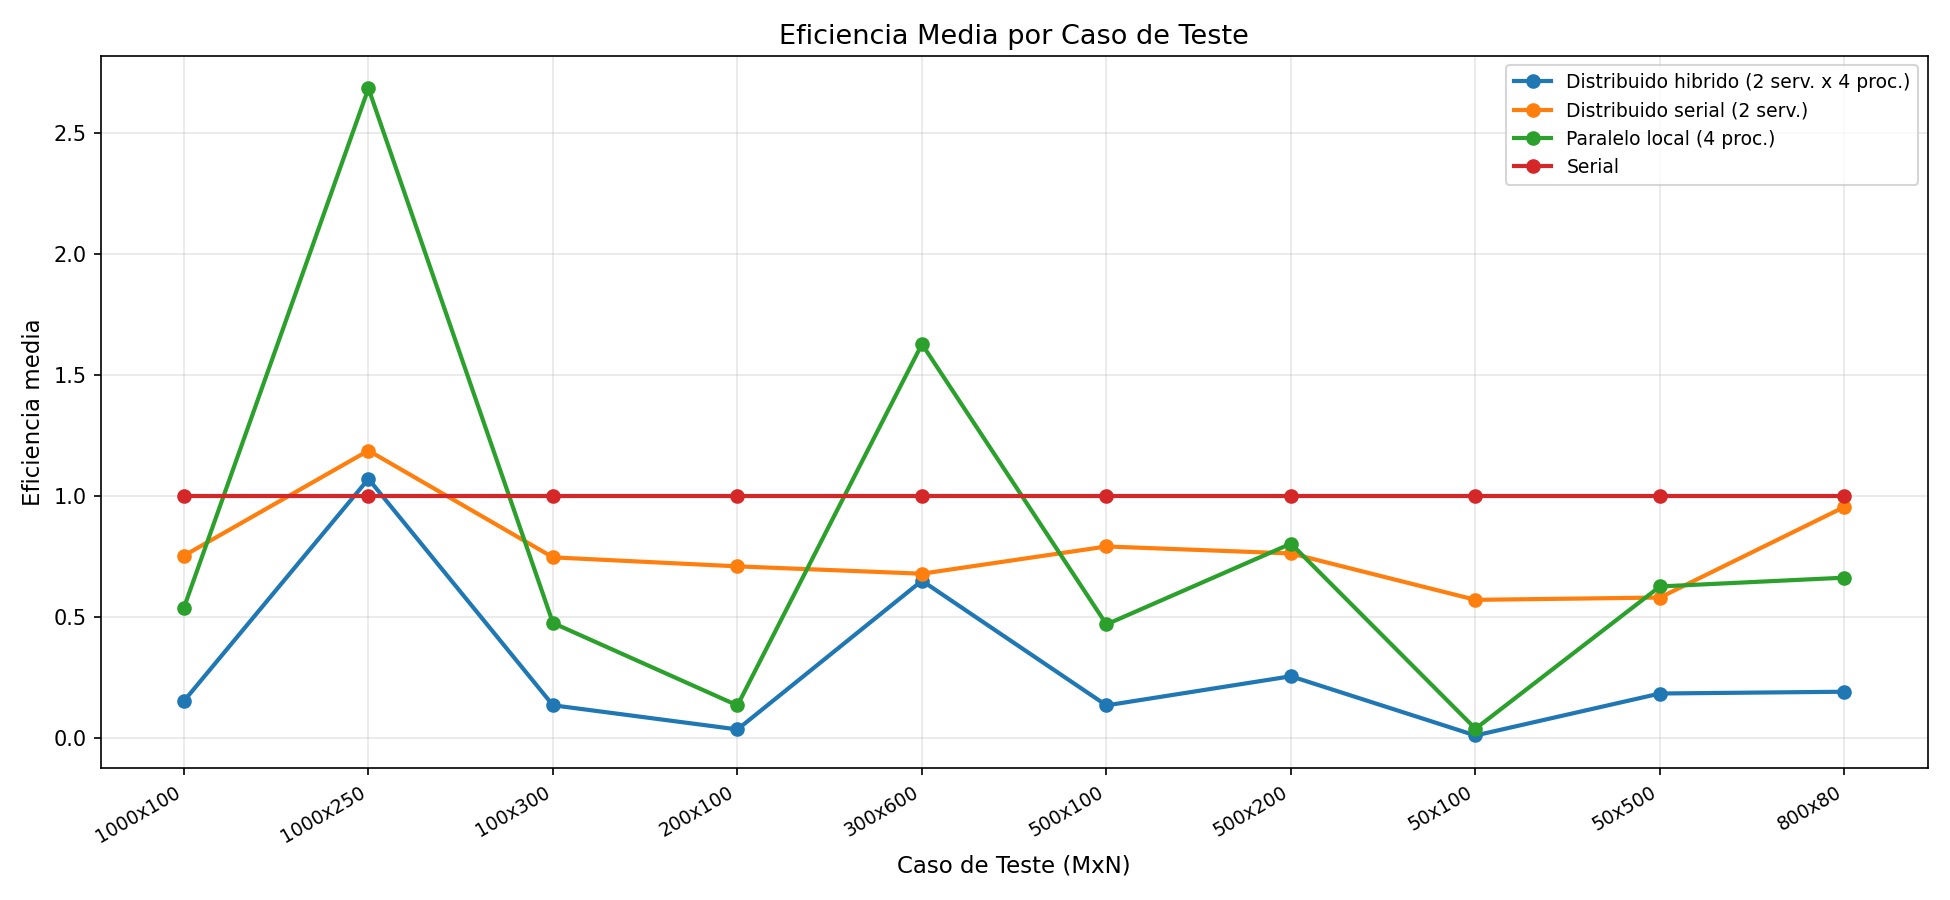
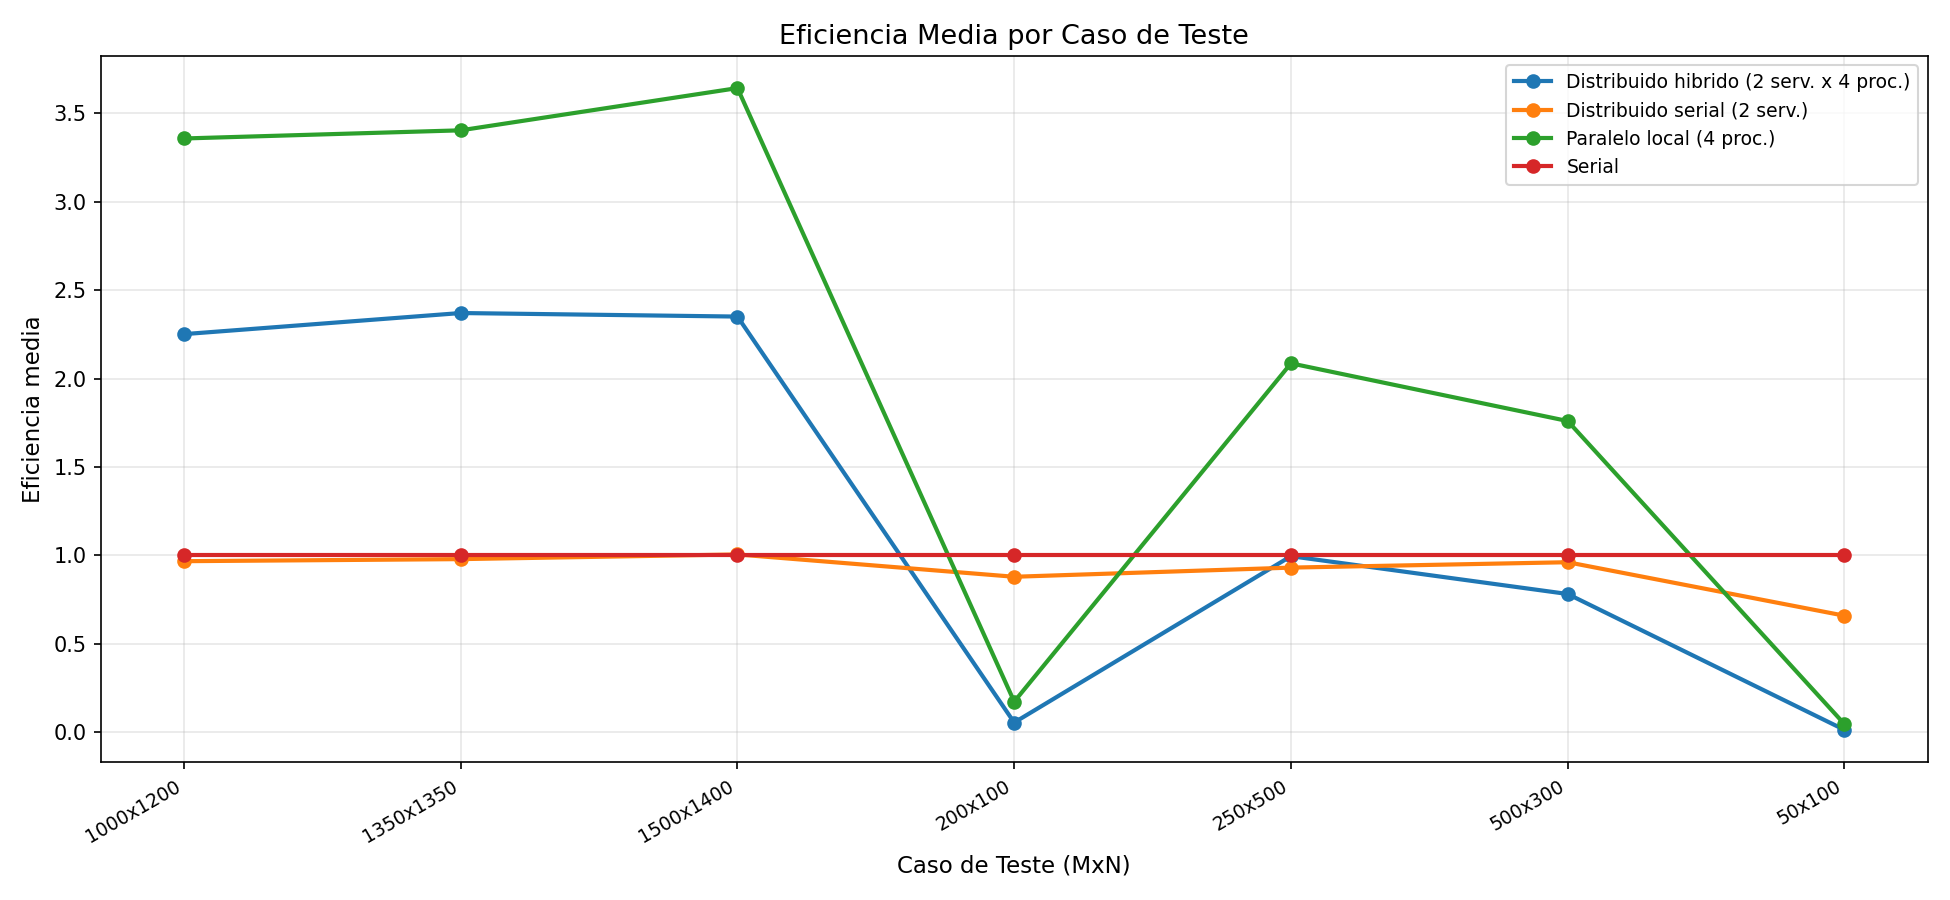
minor changes

diff --git a/main.py b/main.py
@@ -26,26 +26,26 @@ from avaliacao import executar_tudo
 # ------+-------------+----------
 #   1   |   50 x 100  | 100 x 100
 #   2   |  200 x 100  | 100 x 100
-#   3   |   50 x 500  | 500 x 500
-#   4   |  500 x 100  | 100 x 100
-#   5   | 1000 x 100  | 100 x 100
-#   6   |  500 x 200  | 200 x 200
-#   7   |  100 x 300  | 300 x 300
-#   8   |  300 x 600  | 600 x 600
-#   9   |  800 x  80  |  80 x  80
-#  10   | 1000 x 250  | 250 x 250
+#   3   |  250 x 500  | 500 x 500
+#   4   |  500 x 300  | 300 x 300
+#   5   | 1000 x 1200 | 1200 x 1200
+#   6   | 1350 x 1350 | 1350 x 1350
+#   7   | 1500 x 1400 | 1400 x 1400
+#   8   | 1450 x 1600 | 1600 x 1600
+#   9   | 2000 x 3000 | 3000 x 3000
+#  10   | 3000 x 2100 | 2100 x 2100
 # ---------------------------------------------------------------------------
 CASOS_DE_TESTE = [
     (50,   100),   # Caso 1  - matriz pequena, poucos elementos
     (200,  100),   # Caso 2  - mais linhas, mesma coluna
-    (50,   500),   # Caso 3  - poucas linhas, coluna grande
-    (500,  100),   # Caso 4  - muitas linhas, coluna media
-    (1000, 100),   # Caso 5  - alto numero de linhas
-    (500,  200),   # Caso 6  - dimensoes medianas equilibradas
-    (100,  300),   # Caso 7  - coluna maior que linhas
-    (300,  600),   # Caso 8  - matriz de porte elevado
-    (800,   80),   # Caso 9  - muitas linhas, coluna pequena
-    (1000, 250),   # Caso 10 - maior caso de teste
+    (250,   500),   # Caso 3  - poucas linhas, coluna grande
+    (500,  300),   # Caso 4  - muitas linhas, coluna media
+    (1000, 1200),   # Caso 5  - alto numero de linhas
+    (1350,  1350),   # Caso 6  - dimensoes medianas equilibradas
+    (1500,  1400)   # Caso 7  - coluna maior que linhas
+    # (1450,  1600),   # Caso 8  - matriz de porte elevado
+    # (2000,   3000),   # Caso 9  - muitas linhas, coluna pequena
+    # (3000, 2100),   # Caso 10 - maior caso de teste
 ]
 
 # Numero de vezes que cada caso e repetido (os tempos sao medios das repeticoes)
@@ -74,6 +74,10 @@ EXIBIR_GRAFICOS = True
 
 
 if __name__ == "__main__":
+    qtd_servidores = input("Digite a quantidade de servidores: ")
+    linhas = input("Digite a quantidade de linhas: ")
+    colunas = input("Digite a quantidade de colunas: ")
+
     executar_tudo(
         casos_de_teste=CASOS_DE_TESTE,
         repeticoes=REPETICOES,

diff --git a/graficos.py b/graficos.py
@@ -106,8 +106,8 @@ def plotar_resultados(resultados, diretorio_saida="results/plots", exibir=True):
         ("eficiencia", "Eficiencia media",  "Eficiencia Media por Caso de Teste",        "eficiencia.png"),
     ]
 
-    # Ordem fixa dos casos no eixo X para manter consistencia entre graficos
-    casos_unicos = sorted({reg["caso"] for reg in agregados})
+    # Ordem crescente numerica dos casos (MxN)
+    casos_unicos = sorted({reg["caso"] for reg in agregados}, key=lambda c: tuple(map(int, c.split("x"))))
 
     for metrica, rotulo_y, titulo, nome_arquivo in metricas:
         fig, ax = plt.subplots(figsize=(13, 6))
